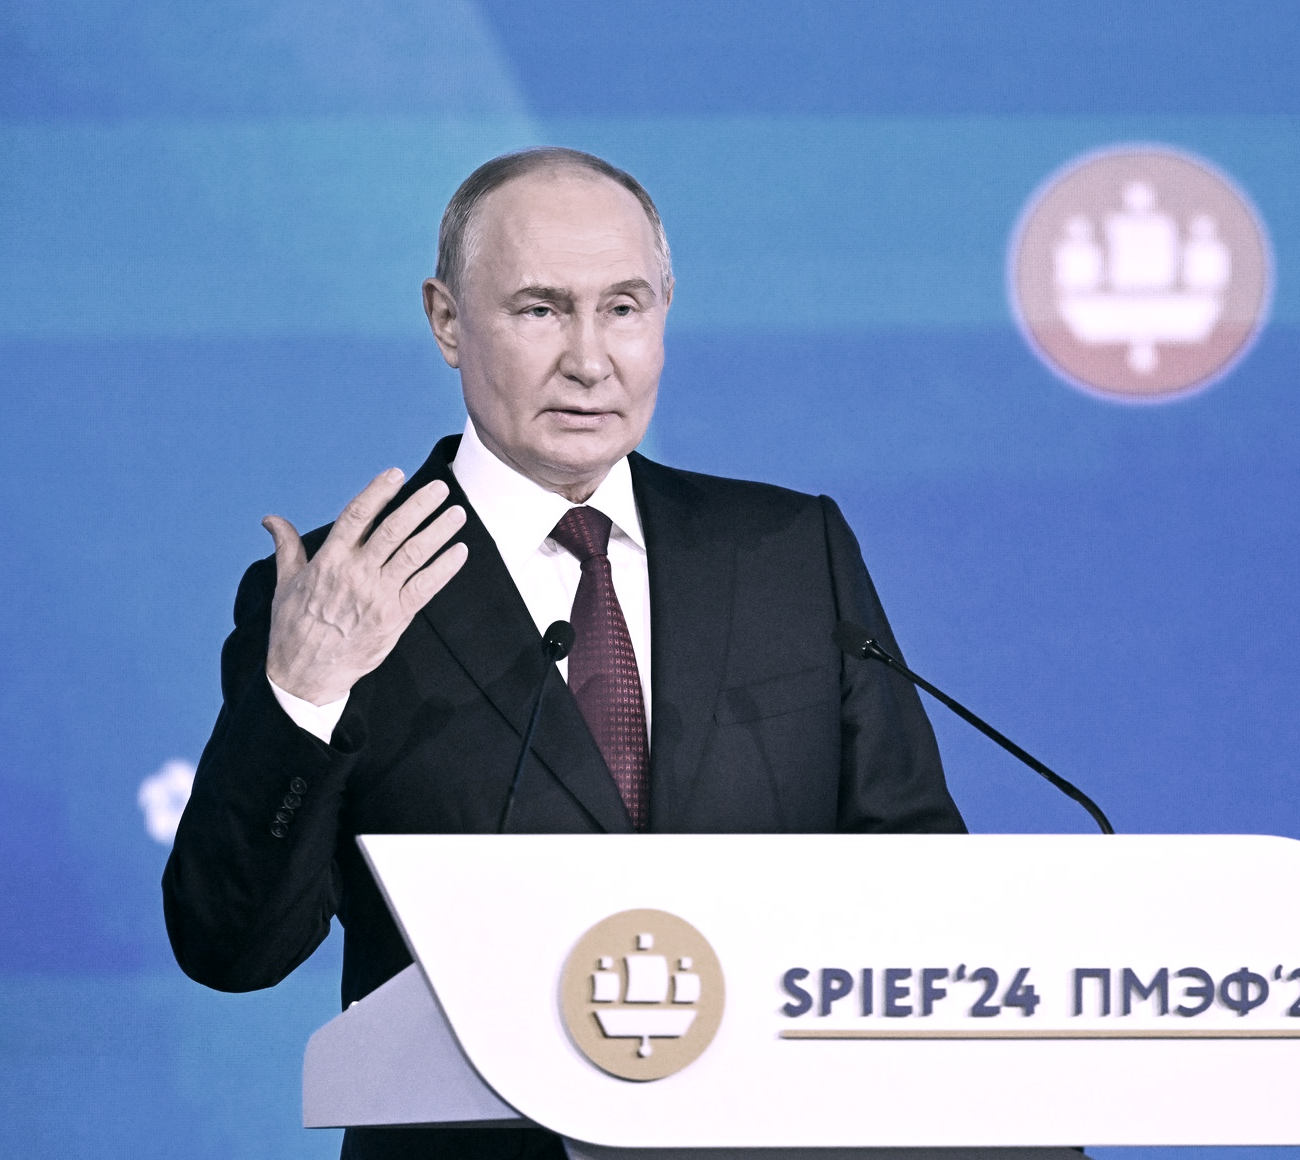
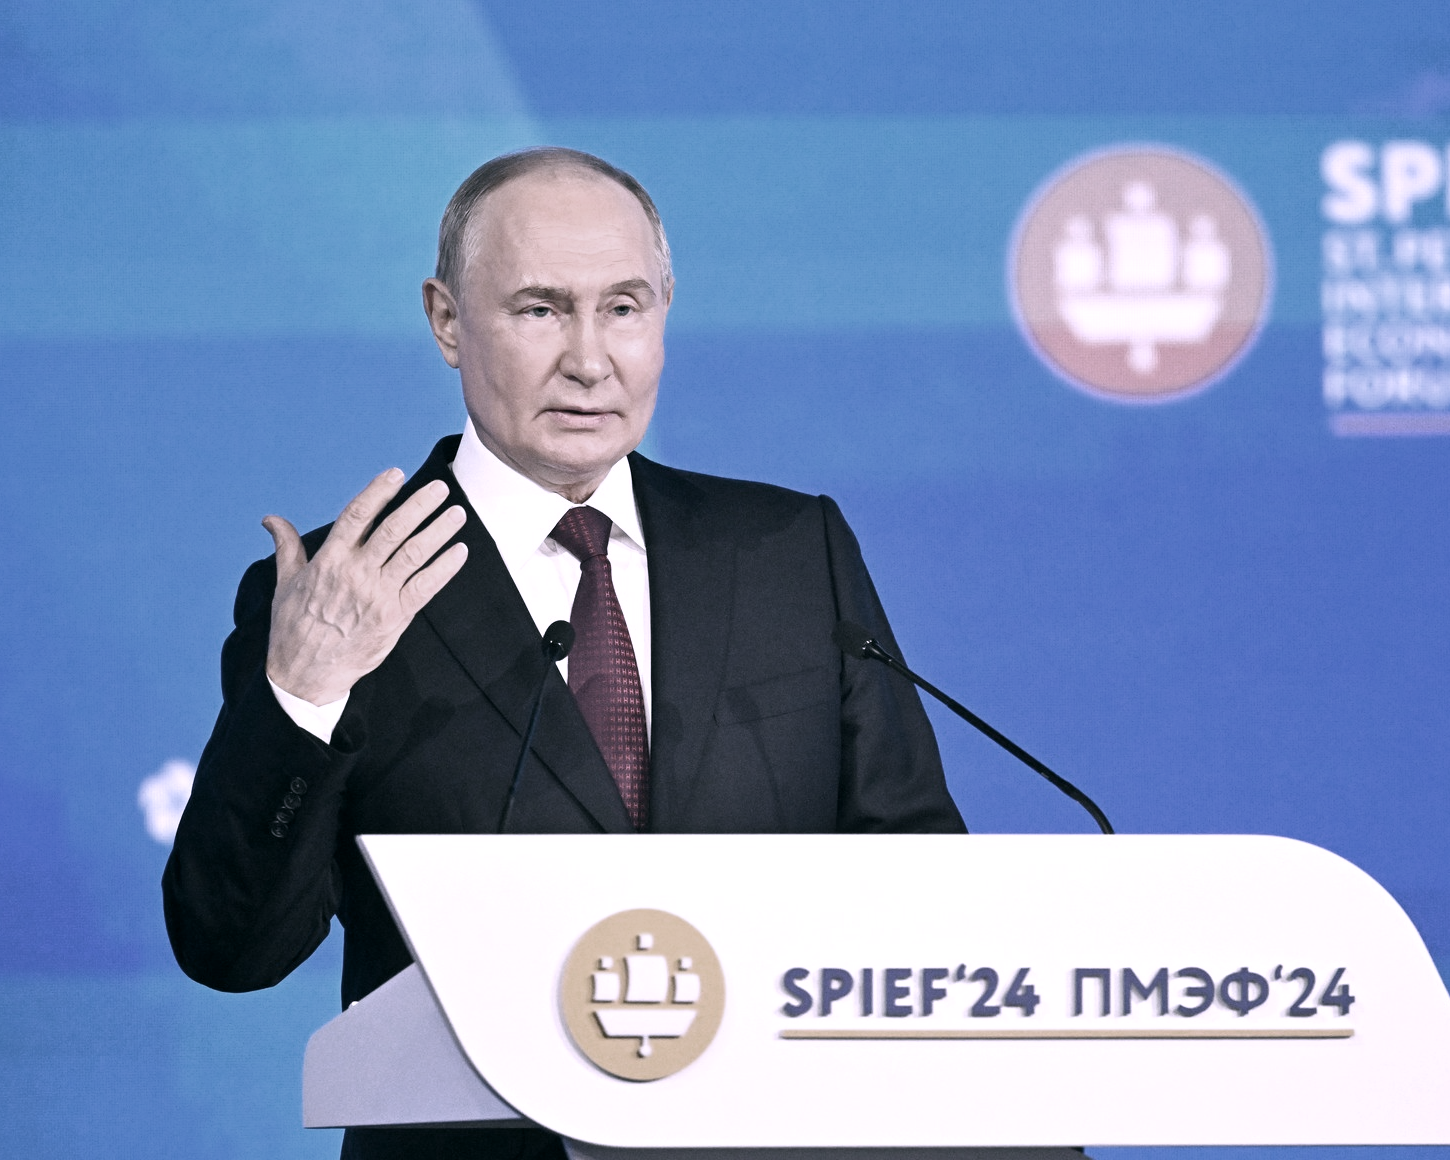
Block 6: wider photo crop (1450x1160) shows full SPIEF24 ПМЭФ24 + quotes use full column width (text-wrap pretty)

diff --git a/index.html b/index.html
@@ -1268,7 +1268,7 @@
     .quote-media {
       position: relative;
       width: 100%;
-      aspect-ratio: 1300 / 1160;
+      aspect-ratio: 1450 / 1160;
       overflow: hidden;
       border-radius: 10px;
       background: var(--cream-warm);
@@ -1298,7 +1298,7 @@
       display: flex;
       flex-direction: column;
       align-items: flex-start;
-      max-width: 36rem;
+      max-width: 100%;
     }
     .quote-content .eyebrow {
       margin-bottom: 1.6rem;
@@ -1312,8 +1312,8 @@
       letter-spacing: -0.005em;
       color: var(--ink);
       margin: 0 0 1.6rem;
-      text-wrap: balance;
-      max-width: 32rem;
+      text-wrap: pretty;
+      max-width: 100%;
     }
     .quote-text:last-of-type {
       margin-bottom: 2rem;